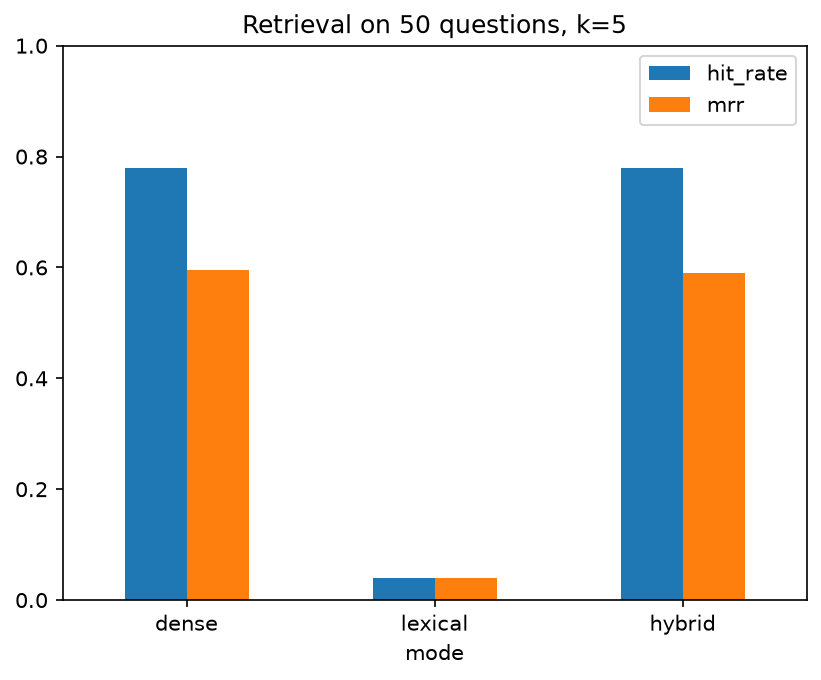
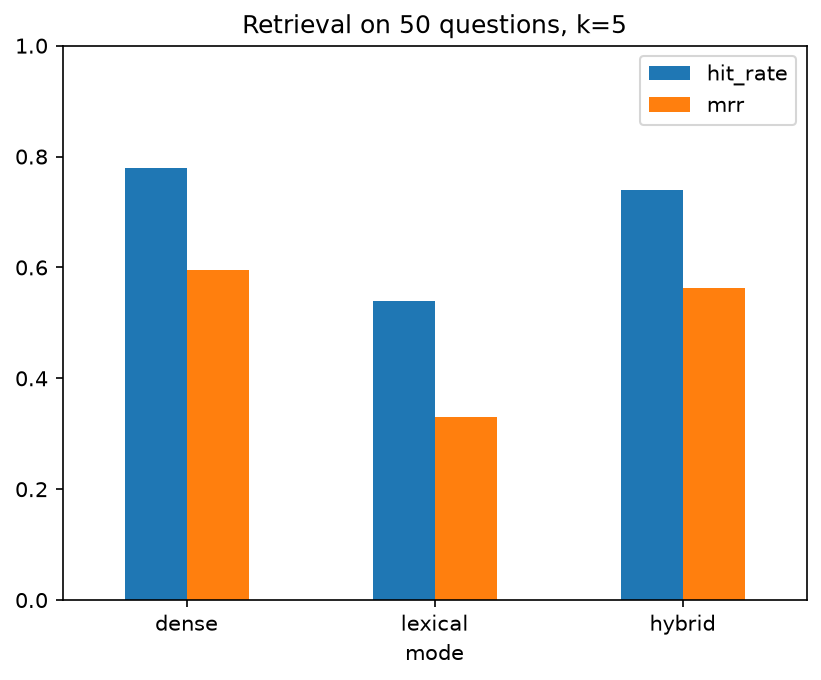
docs: re-measure the three modes against the repaired lexical leg
Dense still wins and still ships. Hybrid now loses for a real reason rather
than a vacuous one: both legs return results, and equal-weight fusion pays
more for lexical false positives than it earns from the three questions only
lexical finds. The union of the two legs reaches 0.84, above dense's 0.78.

Changed region(s): [[0.4568, 0.4324, 0.609, 0.8647], [0.7308, 0.2471, 0.8526, 0.2779], [0.8222, 0.4015, 0.9135, 0.4324]]

diff --git a/eval/eval_retrieval.py b/eval/eval_retrieval.py
@@ -19,14 +19,16 @@ _MODE_KEY = "RETRIEVAL_MODE"
 
 def hit_rate(results: list[list[str]], expected: list[str]) -> float:
     """Fraction of queries whose expected chunk appears in the retrieved ids."""
-    found = sum(1 for retrieved, target in zip(results, expected) if target in retrieved)
+    found = sum(
+        1 for retrieved, target in zip(results, expected, strict=True) if target in retrieved
+    )
     return found / len(expected)
 
 
 def mean_reciprocal_rank(results: list[list[str]], expected: list[str]) -> float:
     """Mean of 1/rank of the expected chunk, counting 0 when it is absent."""
     total = 0.0
-    for retrieved, target in zip(results, expected):
+    for retrieved, target in zip(results, expected, strict=True):
         if target in retrieved:
             total += 1.0 / (retrieved.index(target) + 1)
     return total / len(expected)
